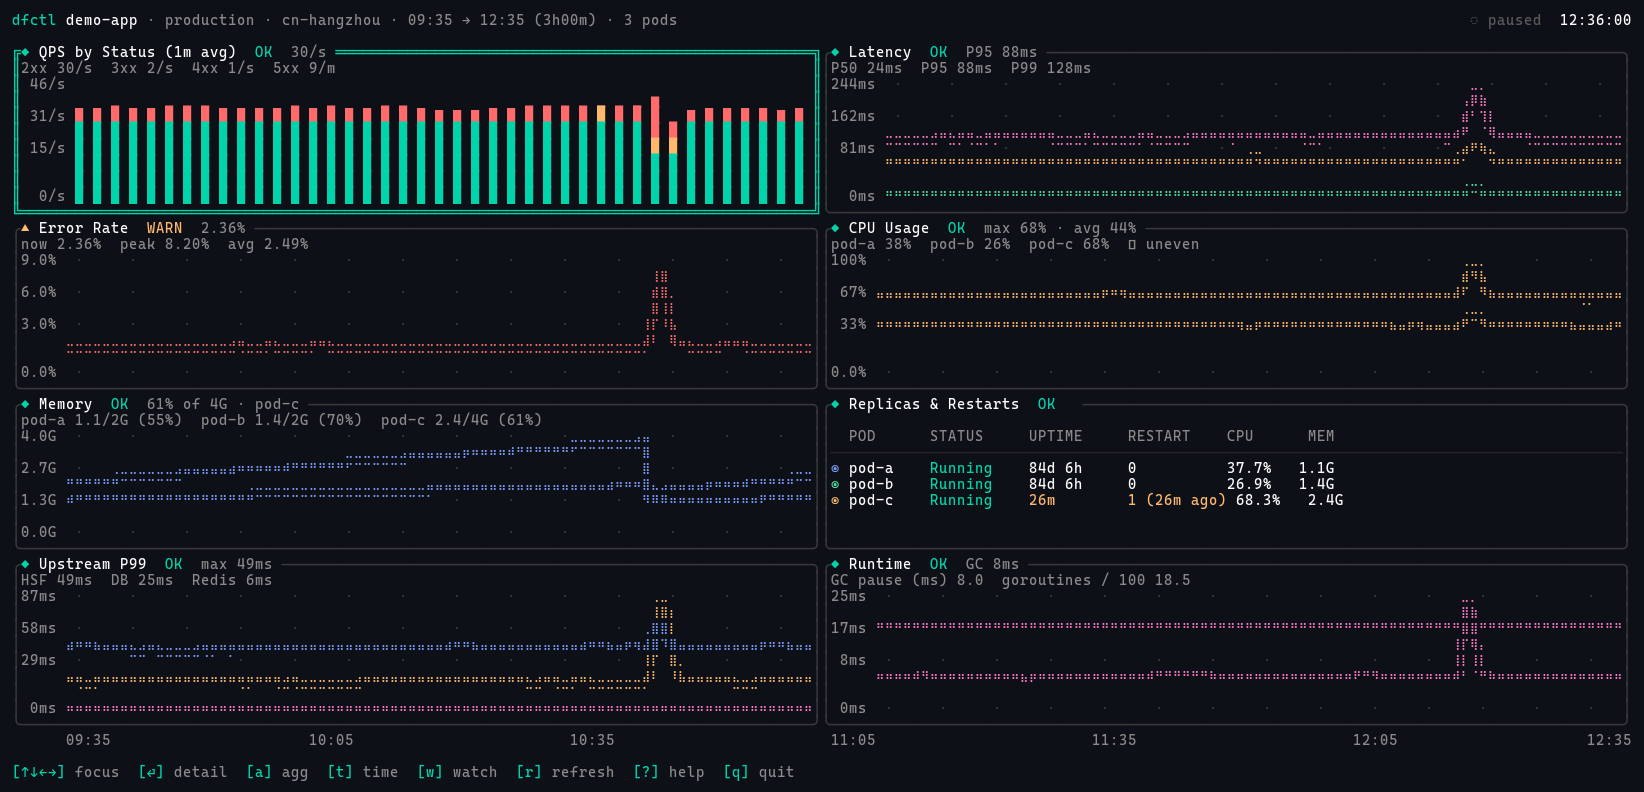
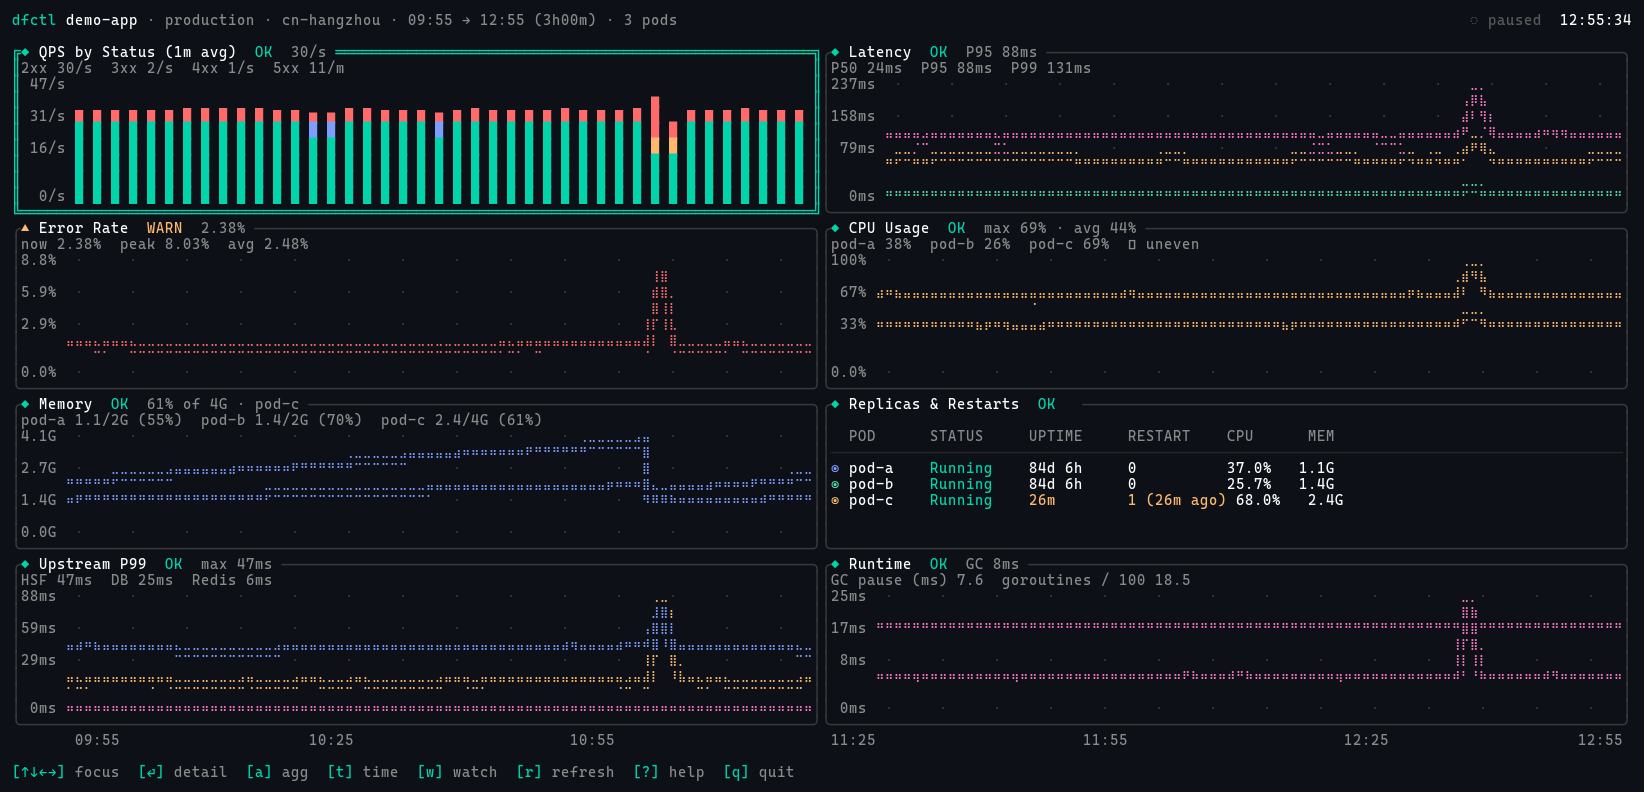
time-axis: tier-based label count + true edge alignment
Two iPhone screenshot issues from the user:

1. **Too many labels on a phone-sized axis.**
   80×24 was showing 7 ticks crammed into 76 columns, so the eye couldn't
   tell which tick lined up with which chart event. Tier-based count now:
     - axis_w < 45  → 3 ticks (40×40 iPhone portrait)
     - axis_w < 130 → 5 ticks (80–120 col phone / mid laptop)
     - otherwise    → 7 ticks (180+ col desktop)

2. **Left edge was misaligned with chart.**
   `align_x_offset` was 4 on phone tier but the panel's chart actually
   starts at column 5 (1 border + 4 compact Y-axis label). Off-by-one
   was visible in the screenshot as "left of the leftmost bar". Bumped
   phone to 5, desktop to 7 (1 border + 6 desktop Y-axis label), plus
   added `align_x_end_pad` (default 1) so the rightmost label also
   stops at the chart's right edge rather than the screen edge.

   `TimeAxis::new` builder pins both offsets to sensible defaults so
   call sites can ignore the right pad.

Verified on 40×40 / 80×24 / 120×40 / 180×48.

diff --git a/src/commands/monitor/widgets/time_axis.rs b/src/commands/monitor/widgets/time_axis.rs
@@ -6,13 +6,32 @@ use ratatui::style::Style;
 use ratatui::text::Span;
 use ratatui::widgets::Widget;
 
-/// Horizontal time scale (7 evenly-spaced labels) under the overview panels.
-/// Confirms that `t` (range picker) actually changed the window — without
-/// this, the user had no on-screen evidence that the query updated.
+/// Horizontal time scale under the overview panels. Confirms that `t`
+/// (range picker) actually changed the window — without this, the user had
+/// no on-screen evidence that the query updated.
 pub struct TimeAxis {
     pub from: DateTime<Utc>,
     pub to: DateTime<Utc>,
-    pub align_x_offset: u16, // skip the gutter where Y-axis labels live
+    /// Skip this many columns on the left for the Y-axis gutter + panel border
+    /// so the first time label lines up with the chart's first pixel column,
+    /// not the screen edge.
+    pub align_x_offset: u16,
+    /// Same on the right — number of columns to reserve for the panel border
+    /// (and any right padding). Defaults to 1 if you use the builder.
+    pub align_x_end_pad: u16,
+}
+
+impl TimeAxis {
+    /// Convenience constructor that sets sensible right padding (1 col for
+    /// the panel border).
+    pub fn new(from: DateTime<Utc>, to: DateTime<Utc>, align_x_offset: u16) -> Self {
+        Self {
+            from,
+            to,
+            align_x_offset,
+            align_x_end_pad: 1,
+        }
+    }
 }
 
 impl Widget for TimeAxis {
@@ -21,8 +40,22 @@ impl Widget for TimeAxis {
             return;
         }
         let axis_x = area.x + self.align_x_offset;
-        let axis_w = area.width.saturating_sub(self.align_x_offset);
-        let n = 7_usize;
+        let axis_w = area
+            .width
+            .saturating_sub(self.align_x_offset)
+            .saturating_sub(self.align_x_end_pad);
+
+        // Pick label count that fits without crowding. Each label is 5 chars
+        // (HH:MM) and reads best with ~15 cols of breathing room between
+        // ticks. Otherwise the eye can't tell which tick lines up with which
+        // chart spike (user feedback: "底部时间刻度在小屏不需要那么多").
+        let n: usize = if axis_w < 45 {
+            3
+        } else if axis_w < 130 {
+            5
+        } else {
+            7
+        };
         let span_secs = (self.to - self.from).num_seconds().max(60) as f64;
         let use_full_date = span_secs >= 86_400.0;
 

diff --git a/src/commands/monitor/render/overview.rs b/src/commands/monitor/render/overview.rs
@@ -82,11 +82,15 @@ pub fn draw_overview(area: Rect, buf: &mut Buffer, st: &AppState, tier: LayoutTi
     // X-axis time scale under the panels — makes it obvious which window the
     // user is looking at and confirms range picker changed the query.
     if let Some(axis) = rects.time_axis {
-        widgets::time_axis::TimeAxis {
-            from: data.time_range.from,
-            to: data.time_range.to,
-            align_x_offset: 6, // skip Y-axis gutter inside each panel
-        }
+        // Desktop tier panels: border (1) + Y-axis label_w (~6). The axis
+        // spans only the left panel; the right panel has its own Y axis but
+        // sharing one time scale is fine since both columns plot the same
+        // window.
+        widgets::time_axis::TimeAxis::new(
+            data.time_range.from,
+            data.time_range.to,
+            7,
+        )
         .render(axis, buf);
     }
 

diff --git a/src/commands/monitor/render/phone.rs b/src/commands/monitor/render/phone.rs
@@ -71,12 +71,12 @@ pub fn draw_phone(area: Rect, buf: &mut Buffer, st: &AppState) {
         theme::assess_health_with_thresholds(metric, series_slice, thresholds).color();
     // X-axis time scale between the panel and the dot indicator. Mirrors the
     // desktop overview so users see which window they're in without opening
-    // the detail view.
-    widgets::time_axis::TimeAxis {
-        from: data.time_range.from,
-        to: data.time_range.to,
-        align_x_offset: 4, // narrow Y-axis gutter on phone tier
-    }
+    // the detail view. align: panel border (1) + compact Y-axis label_w (4).
+    widgets::time_axis::TimeAxis::new(
+        data.time_range.from,
+        data.time_range.to,
+        5, // border + compact label_w
+    )
     .render(rects.time_axis, buf);
     widgets::dot_indicator::DotIndicator {
         count: order.len(),
